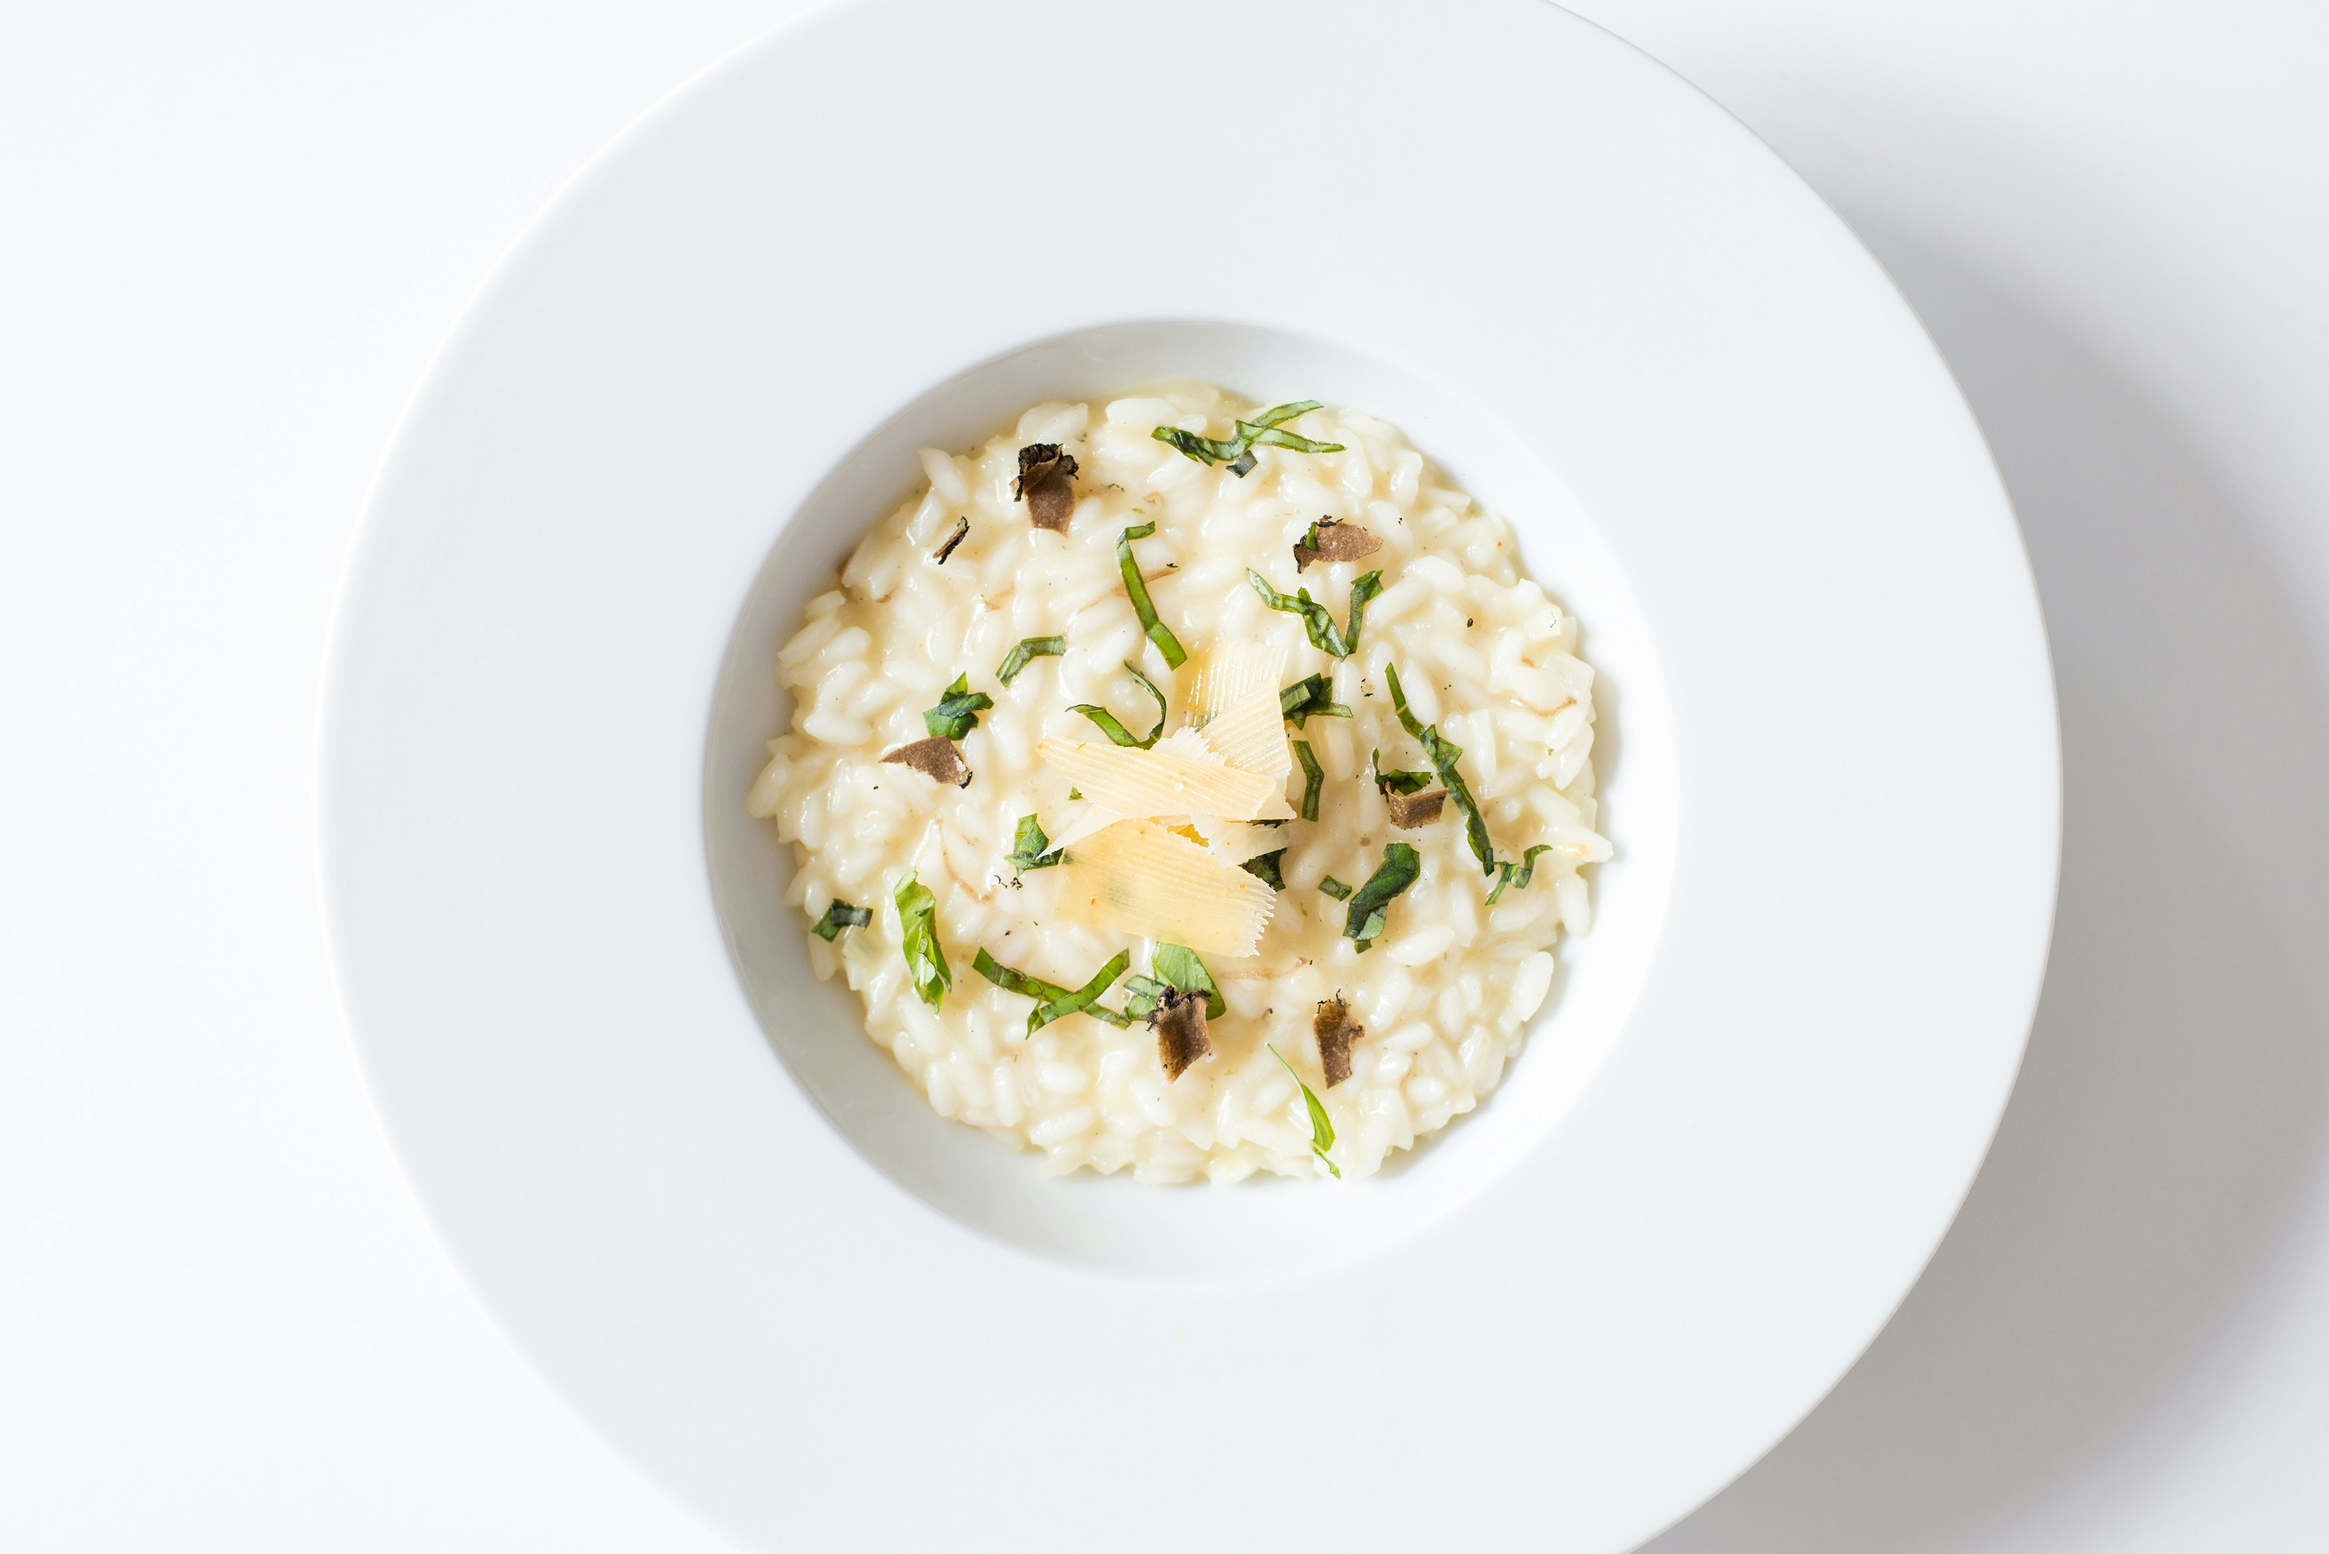
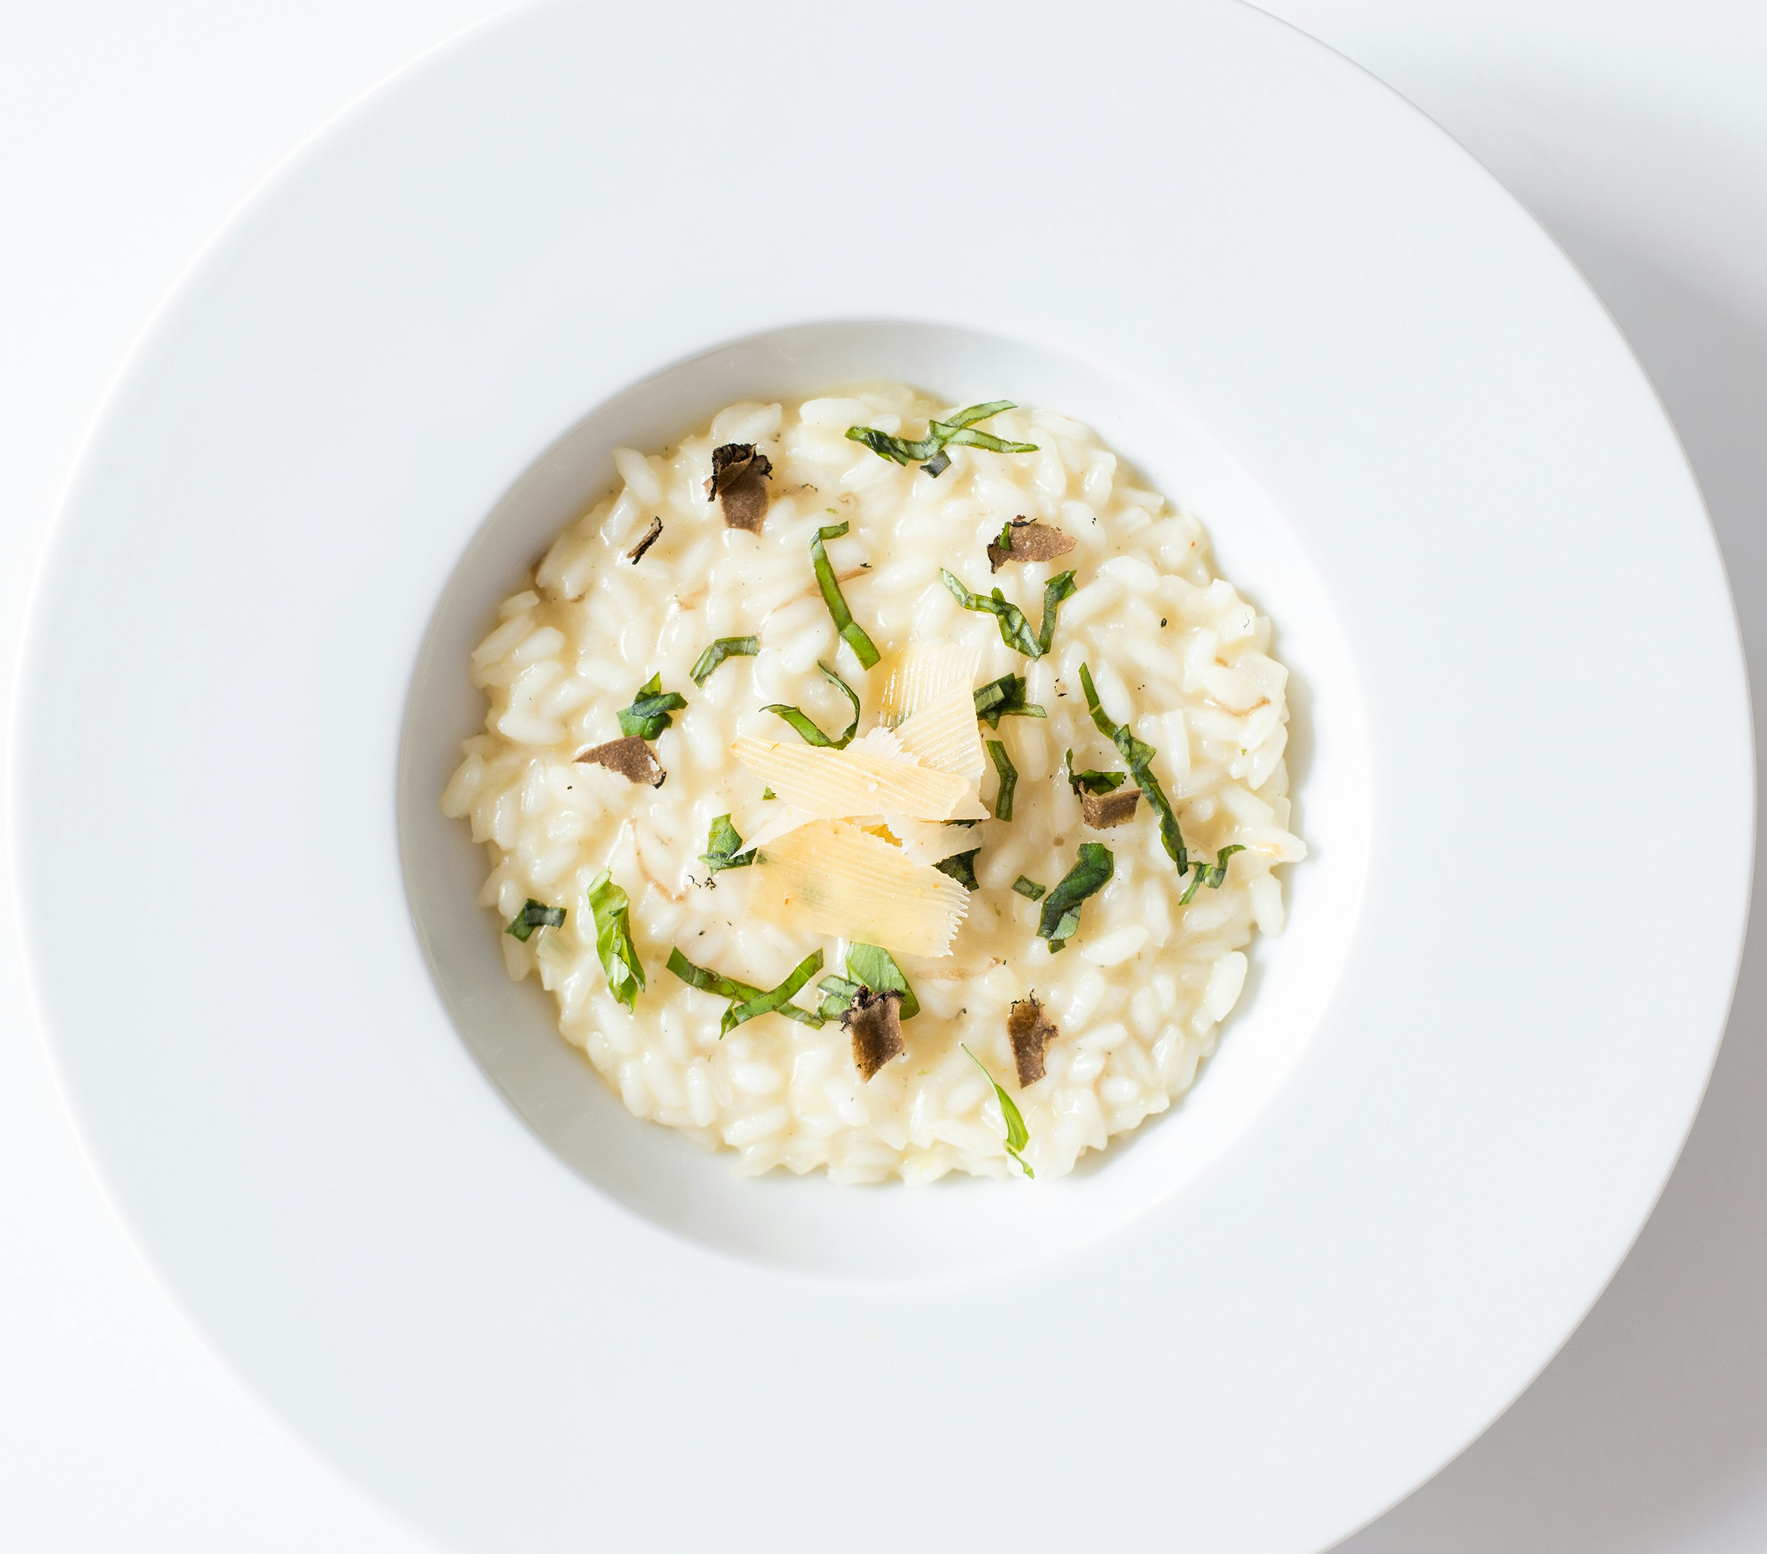
fix images on all pages, polish pancakes.html
- cropped all images to square-ish proportions
- set width of all images to 300
- added image attribution under pancake.jpg
- added description, list of ingredients, and steps to pancake.html

Changed region(s): [[0.2188, 0.1875, 0.75, 0.8125], [0.6875, 0.0938, 1.0, 1.0]]

diff --git a/recipes/pancakes.html b/recipes/pancakes.html
@@ -7,7 +7,43 @@
 </head>
 <body>
     <h1>Pancakes</h1>
-    <img src="../img/pancake.jpg" alt="a photo of several pancakes with berries on a plate.">
-    <a href="../index.html">Home</a>
+    <img src="../img/pancake.jpg" alt="a photo of several pancakes with berries on a plate." width="300">
+    <p>Photo by <a href="https://unsplash.com/@jaqui123456?utm_source=unsplash&utm_medium=referral&utm_content=creditCopyText">Jaqueline Pelzer</a> on <a href="https://unsplash.com/photos/pancakes-with-berries-on-white-ceramic-plate-MytHEJlzdcM?utm_source=unsplash&utm_medium=referral&utm_content=creditCopyText">Unsplash</a></p>
+    <h2>Description</h2>
+    <p>Pancakes are a quick and easy dish for a perfect breakfast! They only need a couple ingredients and are simple to make.</p>
+    <h2>What you'll need:</h2>
+    <ul>
+        <li><strong>Flour</strong> - 1 cup</li>
+        <li><strong>Sugar</strong> - 2 tbsp</li>
+        <li><strong>Baking powder</strong> - 2 tsp</li>
+        <li><strong>Salt</strong> - 1/2 tsp</li>
+        <li><strong>Milk</strong> - 1 cup</li>
+        <li><strong>Oil</strong> - 2 tbsp</li>
+        <li><strong>Egg</strong> - 1 egg, beaten</li>
+    </ul>
+    <h2>How to make it:</h2>
+    <ol>
+        <li><strong>Step 1</strong>
+            <p>Gather all the ingredients.</p>
+        </li>
+        <li><strong>Step 2</strong>
+            <ul>
+                <li>Combine flour, sugar, baking powder, and salt in a large bowl; make a well in the center.</li>
+                <li>Pour in milk, oil, and egg, then mix until smooth.</li>
+            </ul>
+        </li>
+        <li><strong>Step 3</strong>
+            <ul>
+                <li>Heat a lightly oiled griddle or frying pan over medium-high heat.</li>
+                <li>Pour or scoop about a quarter of a cup of batter per pancake onto the griddle.</li>
+                <li>Cook until bubbles form and the edges are dry (1 to 2 minutes).</li>
+                <li>Flip, then cook until browned on the other side.</li>
+                <li>Repeat with remaining batter.</li>
+            </ul>
+        </li>
+        <li><strong>Step 4</strong></li>
+        <p>Add the toppings you like, serve, and enjoy!</p>
+    </ol>
+    <p><strong><a href="../index.html">Home</a></strong></p>
 </body>
 </html>

diff --git a/recipes/risotto.html b/recipes/risotto.html
@@ -7,7 +7,7 @@
 </head>
 <body>
     <h1>Mushroom Risotto</h1>
-    <img src="../img/risotto.jpg" alt="a photo of of mushroom risotto on a white plate">
+    <img src="../img/risotto.jpg" alt="a photo of of mushroom risotto on a white plate" width="300">
     <a href="../index.html">Home</a>
 </body>
 </html>

diff --git a/recipes/carbonara.html b/recipes/carbonara.html
@@ -7,7 +7,7 @@
 </head>
 <body>
     <h1>Pasta Carbonara</h1>
-    <img src="../img/carbonara.jpg" alt="A photo of cooked pasta on a plate">
+    <img src="../img/carbonara.jpg" alt="A photo of cooked pasta on a plate" width="300">
     <a href="../index.html">Home</a>
 </body>
 </html>
